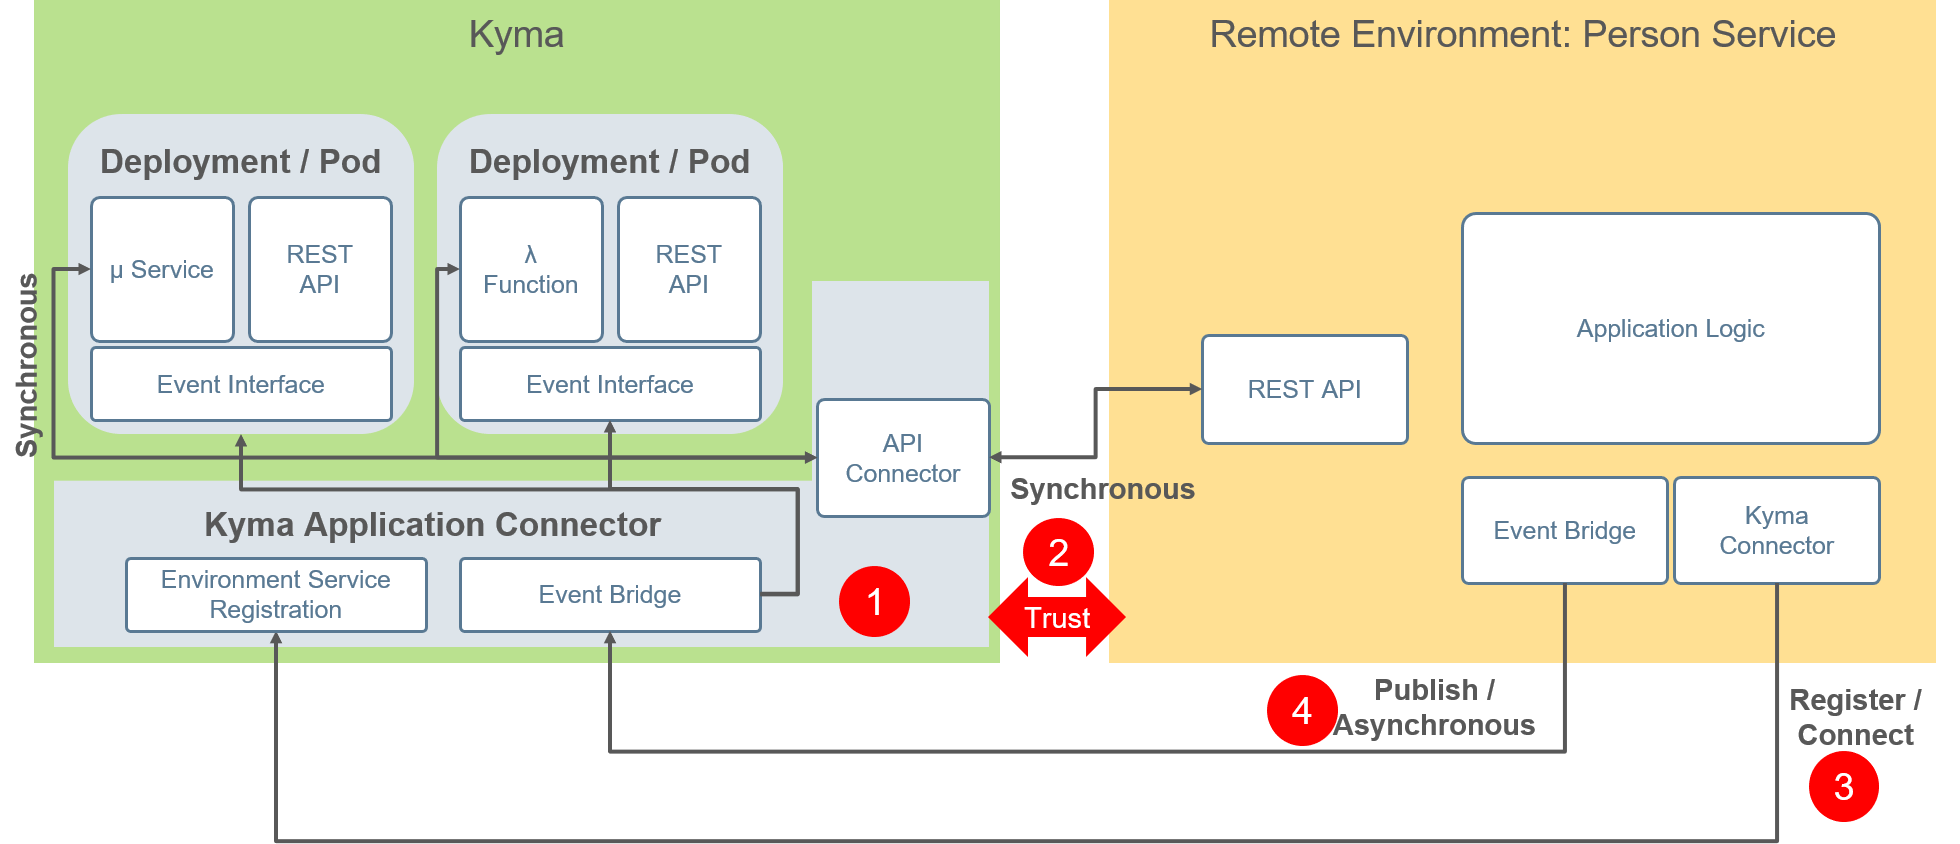
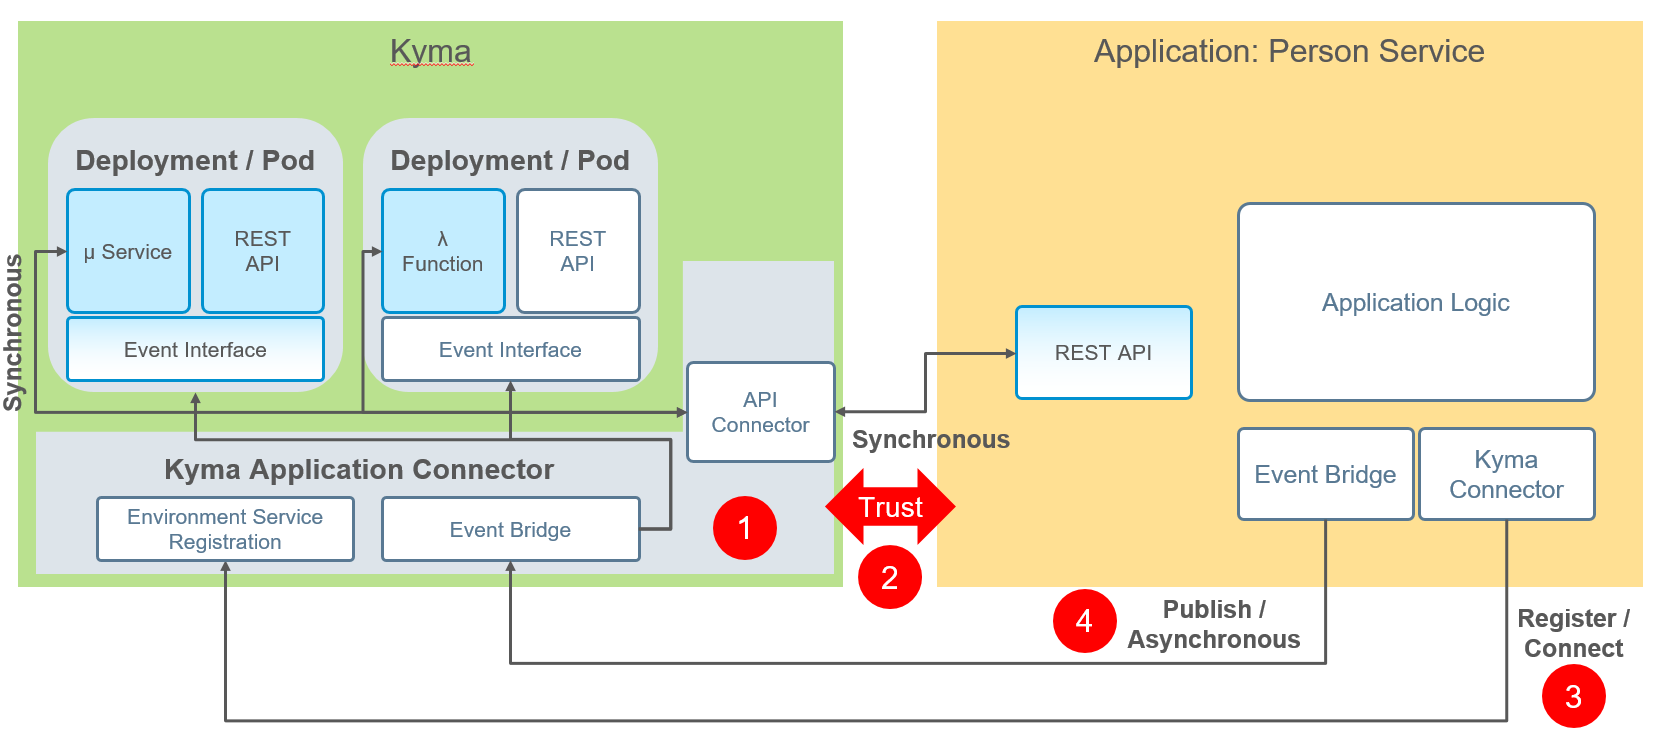
Changes after review

Changed region(s): [[0.0, 0.0, 1.0, 1.0], [0.7983, 0.374, 0.9211, 0.4363]]

diff --git a/personservice/README.md b/personservice/README.md
@@ -65,7 +65,10 @@ This sample application was created to give you a running end to end sample appl
 
 ## Prerequisites
 
-This application runs on [Kyma](https://kyma-project.io). Therefore, to try out this example on your local machine you need to [install Kyma](https://kyma-project.io/docs/latest/root/kyma#getting-started-local-kyma-installation) first, or have access to Kyma cluster.
+This application runs on [Kyma](https://kyma-project.io). Therefore, to try out this example on your local machine you need to [install Kyma](https://kyma-project.io/docs/latest/root/kyma#getting-started-local-kyma-installation) first, or have access to Kyma cluster.  
+
+**![alt text](images/kyma_symbol_text.svg "Logo Title Text 1")  
+This example is tested and based on [Kyma 0.6.1](https://github.com/kyma-project/kyma/releases/tag/0.6.1). Compatibility with other versions is not guaranteed.**
 
 ## Deploy the application
 
@@ -100,18 +103,17 @@ To deploy Mongodb use Helm (https://helm.sh). To install helm do the following:
 ### Java Build
 
 Project is built using:  
-`mvn clean package` or `mvn clean install` 
+`mvn clean package`  
 
 It uses jib (https://github.com/GoogleContainerTools/jib/tree/master/jib-maven-plugin) to build and push to a docker registry (which does not require a local docker install). You **must** use the following maven properties to adapt your local installation:
 
 - docker.repositoryname: Docker repository that the image will be published to (just replace by username on docker hub)
-- jib.credentialhelper: Docker credential helper that will be used to acquire docker hub (adapt to YOUR Operating System, pass or secretservice for Linux, wincred for Windows and osxkeychain for Mac)
+- jib.credentialhelper: Docker credential helper that will be used to acquire docker hub credentials (see: https://docs.docker.com/engine/reference/commandline/login/ heading: "Credential helper protocol") (adapt to YOUR OS, pass or secretservice for Linux, wincred for Windows and osxkeychain for Mac)
 
 You **can** use the following maven properties to adapt to your local installation:
 
 * project.version: Tag that will be assigned to docker image
 * jib.version: Version of the jib plugin that will be used
-credentials (see: https://docs.docker.com/engine/reference/commandline/login/ heading: "Credential helper protocol")
 
 For editing the code I recommend either Eclipse with Spring plugins installed or Spring Tool Suite (https://spring.io/tools/sts/all). You will also need to install the Lombok plugin (https://projectlombok.org/setup/overview). Lombok is used to generate getters/setters and sometimes constructors. It keeps the code lean and neat.
 
@@ -244,7 +246,6 @@ The API is accessible using the following endpoints:
 Altough our Person Service application is running inside of Kyma, we will now treat it like any other external application (hence you can also try this outside of your Kyma instance). This is just to demonstrate what you would do with your legacy application to hook it up to Kyma. The below picture highlights what we are going to do:
 
 ![Connect Remote Environment Response Screenshot](images/extensibility.png)
->Remote Environments are now called Applications
 
 1. Create/Deploy new Application Connector Instance on Kyma &rarr; This is to provide a dedicated Enpoint for the Person Service to connect to Kyma
 2. Pair Person Service with Kyma Application Connector &rarr; This is to establish secure connectivity from Person Service to Kyma (even over public networks)
@@ -287,9 +288,8 @@ Create Key:
 
 `openssl genrsa -out personservicekubernetes.key 2048`  
[1 lines of base64/hex data omitted]
-`openssl base64 -in personservicekubernetes.csr`
 
-4. Use the REST client of your choice to create the following rest call to the full URL (csrUrl) with the token you copied previously:
+1. Encode the content of `personservicekubernetes.csr` (Base64) and use the REST client of your choice to create the following POST call to the full URL (csrUrl) with the token you copied previously:
 ![Connect Remote Environment CSR Screenshot](images/remoteenvironmentpairing3.png)
 5. After sending you will receive a base 64 encoded signed certificate. Decode the response and save as `personservicekubernetes.crt`. The decoded response will contain separators with `BEGIN CERTIFICATE` and `END CERTIFICATE` respectively.
 6. Now you can use OpenSSL and java keytool (part of the jdk) to create a PKCS#12 (P12, also good for browser based testing) file and based on that create a Java Key Store (JKS, for the Person Service) for our service. **Do not change any passwords, except if you really know what you are doing!!!**
@@ -340,7 +340,7 @@ Now (based on your Kyma cluster type) you again need to update the fields marked
 
 ### Checks
 
-To check whether your changes are active, issue the following command until you again have **exactly** 2 Pods of `personservice-*-*` in status running:  
+To check whether your changes are active, issue the following command until you again have **exactly** 1 Pod of `personservice-*-*` in status running:  
 `kubectl get pods -n personservice`.
 
 After that issue a kubectl describe command for 1 of the pods (replacing '\*' with actual values):  
@@ -1272,7 +1272,7 @@ metadata:
   name: personservicekubernetes
   labels:
     app: personservice
-    prometheus: core #links to kyma prometheus instance
+    prometheus: monitoring #links to kyma prometheus instance
 spec:
   jobLabel: "Personservice"
   selector:
